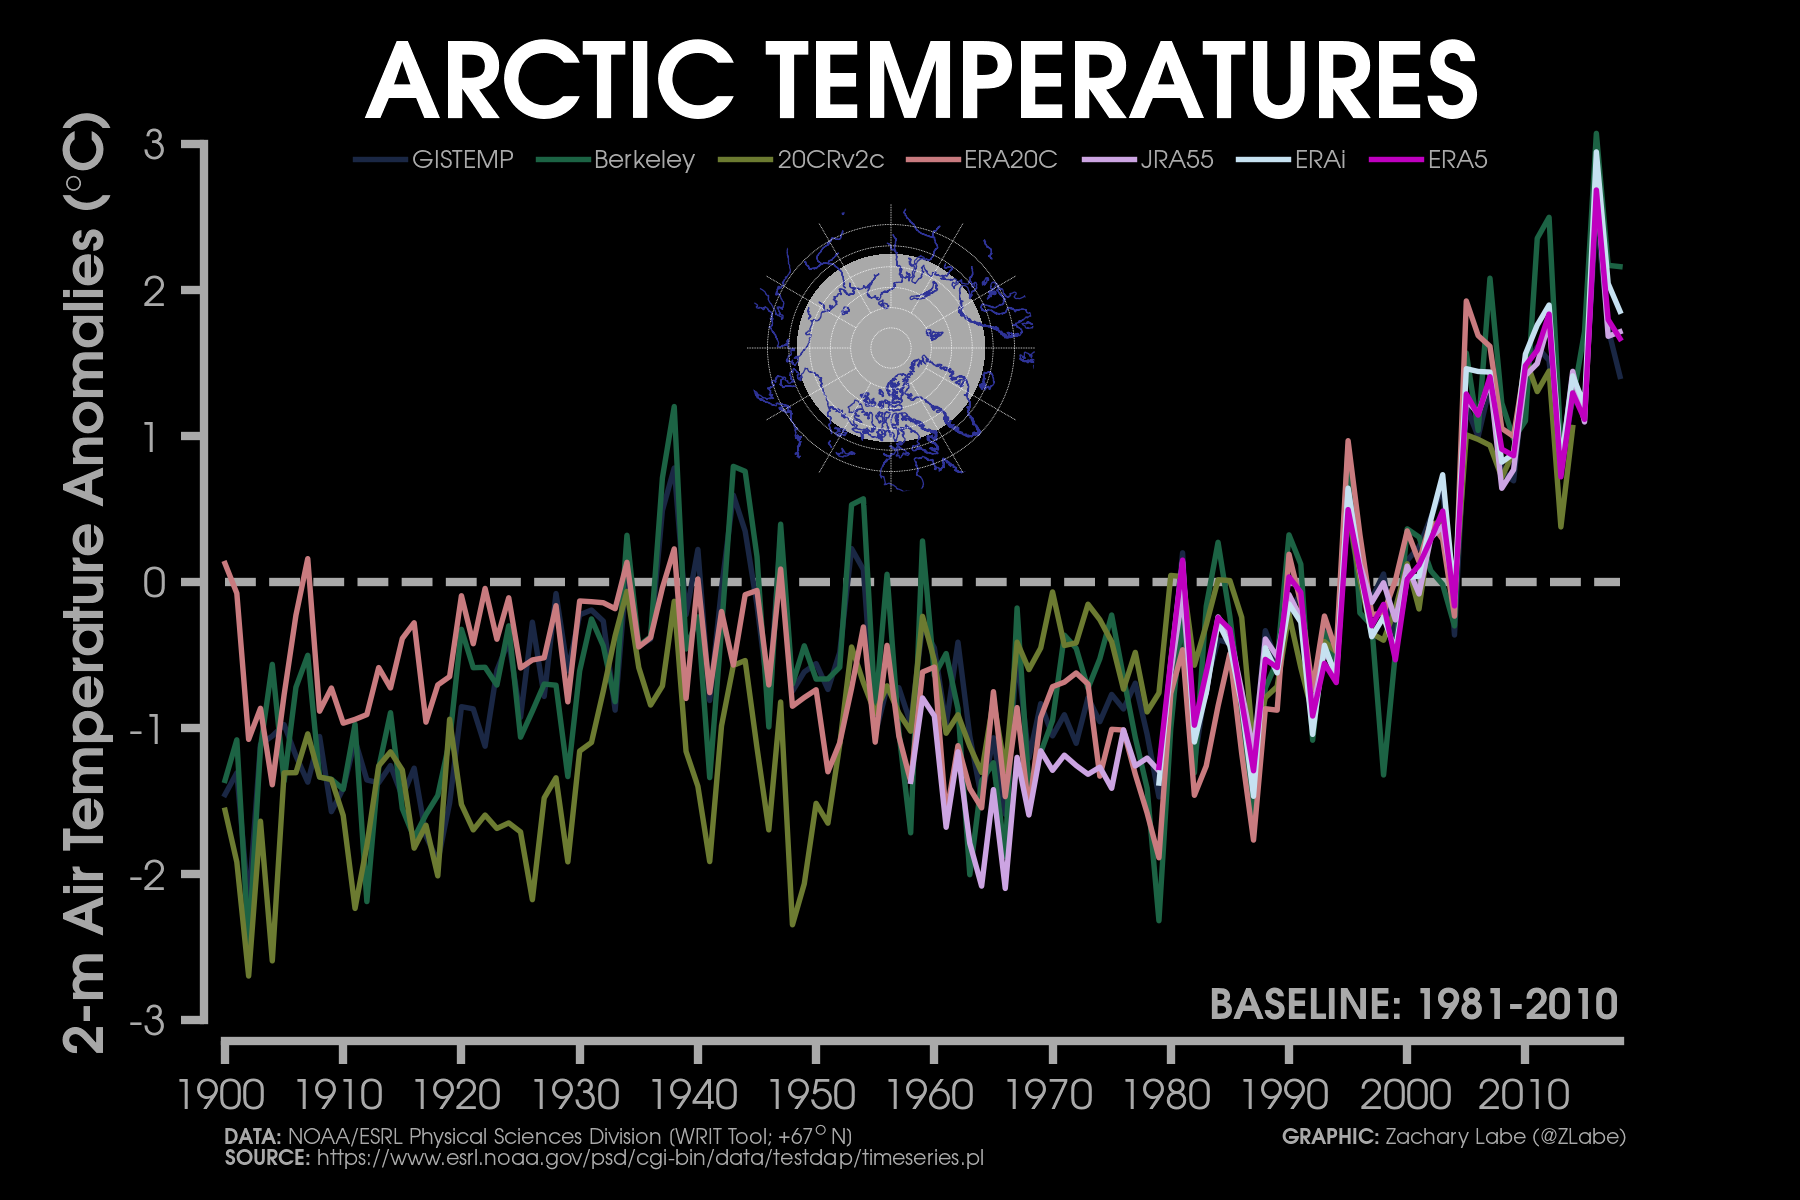
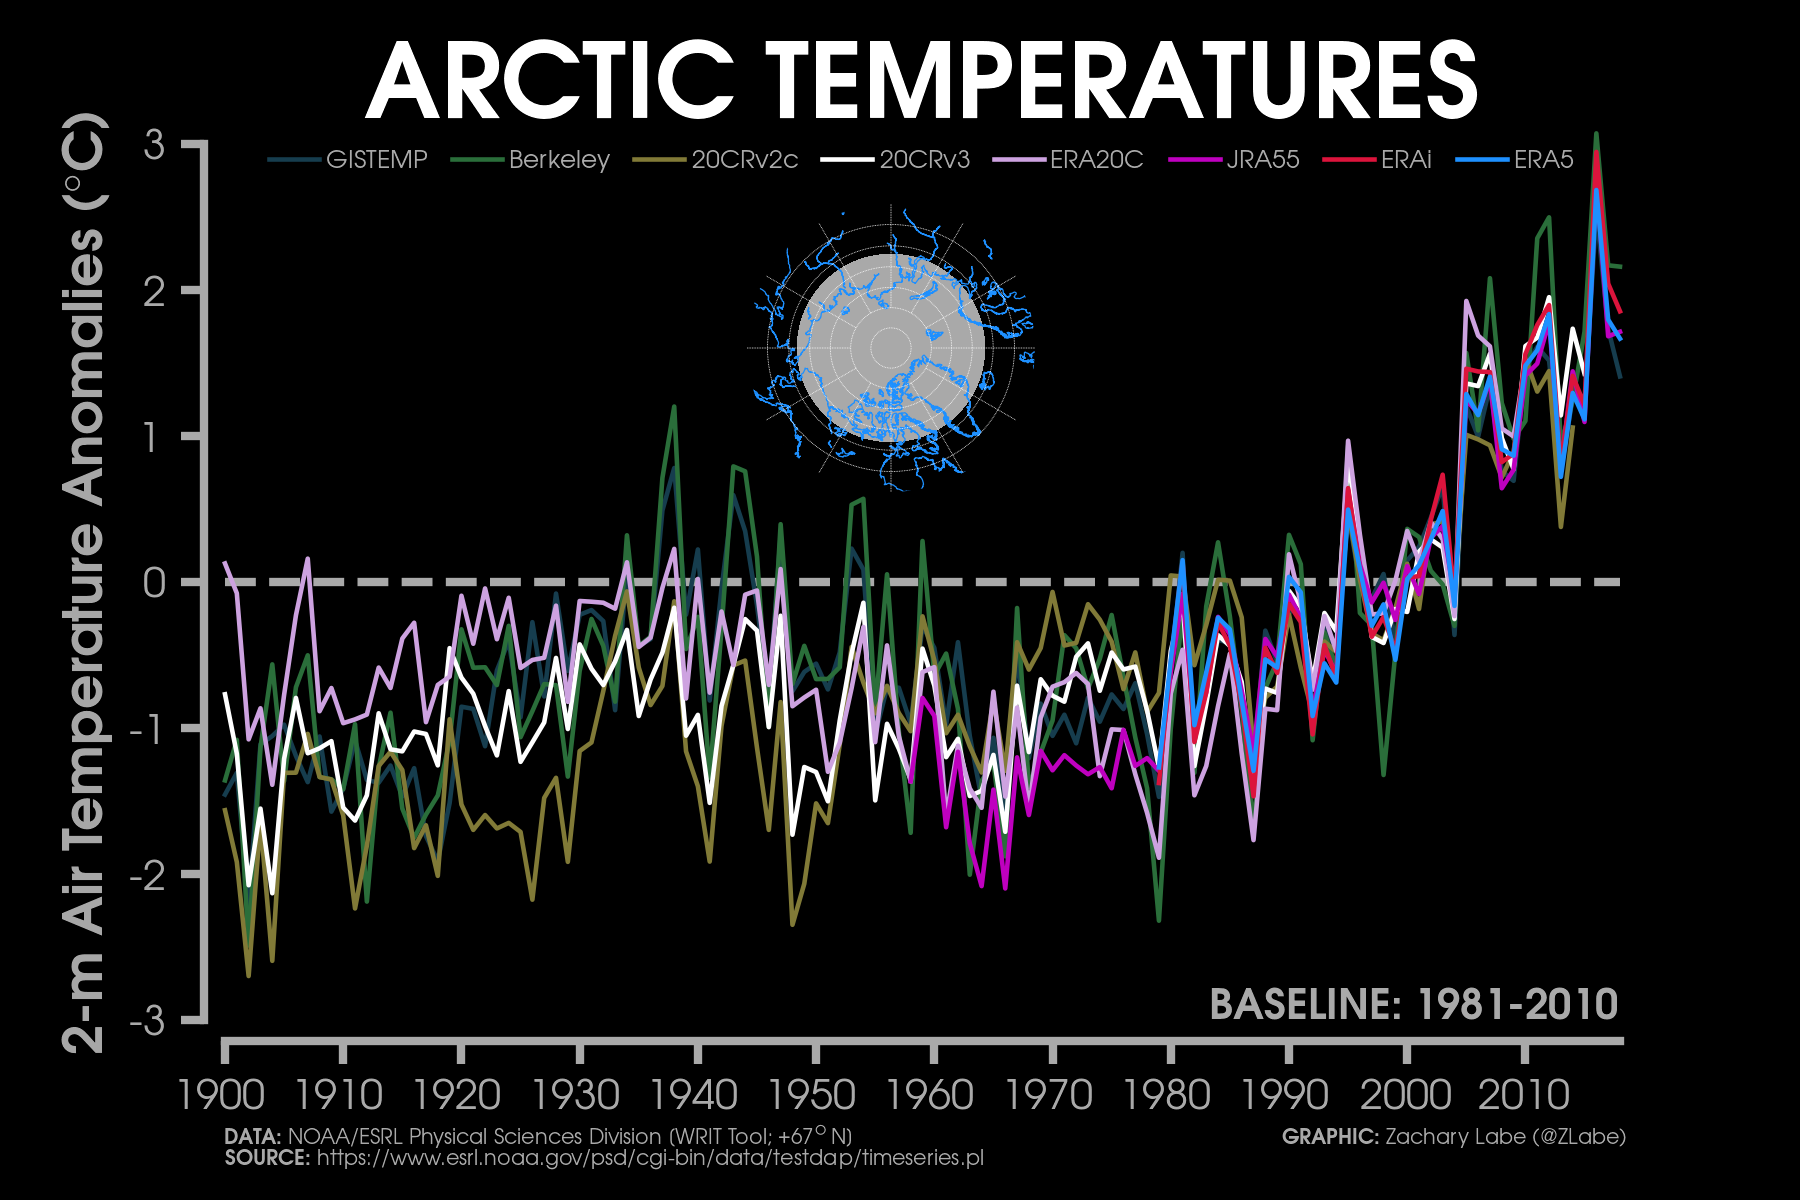
added 20CRv3

diff --git a/Scripts/Temperature/plot_ArcticTemperatures_20CReanalysis.py b/Scripts/Temperature/plot_ArcticTemperatures_20CReanalysis.py
@@ -35,7 +35,7 @@ yearmax = 2018
 years = np.arange(yearmin,yearmax+1,1)
 months = [r'Jan',r'Feb',r'Mar',r'Apr',r'May',r'Jun',r'Jul',r'Aug',
           r'Sep',r'Oct',r'Nov',r'Dec']
-datasets = ['GISTEMP','Berkeley','20CRv2c','ERA20C','JRA55','ERAi','ERA5']
+datasets = ['GISTEMP','Berkeley','20CRv2c','20CRv3','ERA20C','JRA55','ERAi','ERA5']
 
 ### Read in data
 datat = np.empty((len(datasets),len(years)))
@@ -90,12 +90,18 @@ ax.tick_params('both',length=5.5,width=2,which='major')
 plt.plot(np.arange(yearmin,yearmax+2,1),([0]*(len(years)+1)),
          linewidth=2,color='darkgrey',alpha=1,linestyle='--')
 
-color=iter(plt.cm.cubehelix(np.linspace(0.15,1,len(datasets))))
+color=iter(plt.cm.cubehelix(np.linspace(0.2,1.1,len(datasets))))
 for i in range(len(datasets)):
     c=next(color)
     if i == 6:
+        c = 'crimson'
+    elif i == 7:
+        c = 'dodgerblue'
+    elif i == 3:
+        c = 'w'
+    elif i == 5:
         c = 'm'
-    plt.plot(years,datat[i],linewidth=1.3,color=c,alpha=1,
+    plt.plot(years,datat[i],linewidth=1.1,color=c,alpha=1,
              label = '%s' % datasets[i],clip_on=False)
 
 plt.xticks(np.arange(1900,2040,10),np.arange(1900,2040,10))
@@ -111,7 +117,7 @@ plt.text(1983.4,-3.0,r'\textbf{BASELINE: 1981-2010}',
          fontsize=10.1,rotation='horizontal',ha='left',color='darkgrey')
 
 l = plt.legend(shadow=False,fontsize=6,loc='upper center',
-           bbox_to_anchor=(0.5, 1.02),fancybox=True,ncol=7,frameon=False,
+           bbox_to_anchor=(0.5, 1.02),fancybox=True,ncol=8,frameon=False,
            columnspacing=0.95,handletextpad=0.3)
 for text in l.get_texts():
     text.set_color('darkgrey')   
@@ -146,7 +152,7 @@ lon2,lat2 = np.meshgrid(lon1,lat1)
 
 m = Basemap(projection='npstere',boundinglat=55.3,lon_0=270,resolution='l',
             round =True,area_thresh=10000)
-m.drawcoastlines(color = c,linewidth=0.3)
+m.drawcoastlines(color = 'dodgerblue',linewidth=0.3)
 m.drawmapboundary(color='k')
 m.drawlsmask(land_color='k',ocean_color='k')
 
